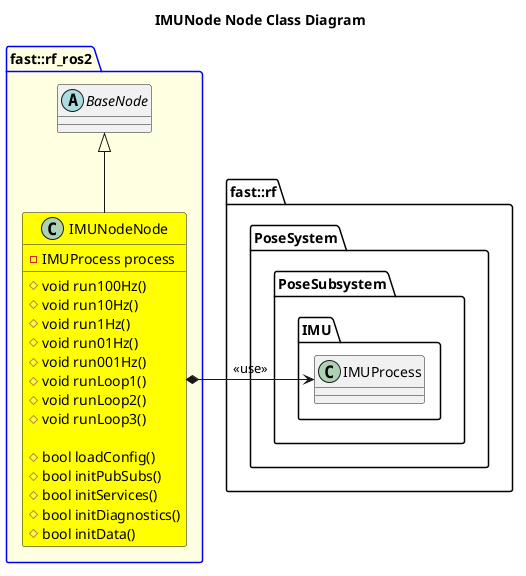
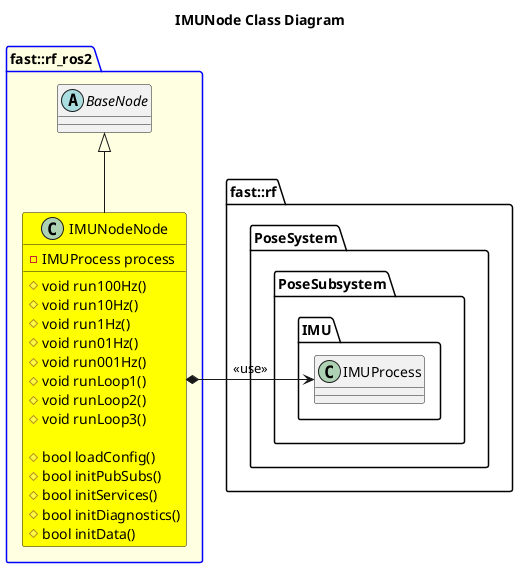
Updates

Changed region(s): [[0.3042, 0.0, 0.6996, 0.0625]]

diff --git a/Systems/Pose/Subsystems/LocalPose/Nodes/LocalPoseFuserNode/test/test_LocalPoseFuserNode.cpp b/Systems/Pose/Subsystems/LocalPose/Nodes/LocalPoseFuserNode/test/test_LocalPoseFuserNode.cpp
@@ -1,20 +1,25 @@
 /**
  * @file test_LocalPoseFuserNode.cpp
  * @author your name (you@domain.com)
- * @brief 
+ * @brief
  * @version 0.1
  * @date 2026-09-13
- * 
+ *
  * @copyright Copyright (c) 2026
  * @compare_tag Node-Test v0.1
- * 
+ *
  */
 #include <gtest/gtest.h>
 
 #include <Infrastructure/Logger.hpp>
 
 #include "../LocalPoseFuserNode.hpp"
+#include "nav_msgs/msg/odometry.hpp"
 #include "rclcpp/rclcpp.hpp"
+#include "sensor_msgs/msg/imu.hpp"
+
+using namespace std::chrono_literals;
+
 class Ros2TestEnvironment : public ::testing::Environment {
    public:
     ~Ros2TestEnvironment() override {}
@@ -23,8 +28,7 @@ class Ros2TestEnvironment : public ::testing::Environment {
 };
 testing::Environment* const ros2_env = testing::AddGlobalTestEnvironment(new Ros2TestEnvironment);
 std::string robotNamespace = "test";
-std::string nodeNamespace =
-    "pose/localpose/localposefuser";
+std::string nodeNamespace = "pose/localpose/localposefuser";
 std::string nodeUnderTest = "local_pose_fuser_node";
 class LocalPoseFuserNodeTestFixture : public ::testing::Test {
    protected:
@@ -49,6 +53,15 @@ class LocalPoseFuserNodeTestFixture : public ::testing::Test {
                 m_receivedReadyToArmRxCount++;
                 m_latestReadyToArm = std::move(*msg);
             });
+
+        m_localPoseSub = test_node->create_subscription<nav_msgs::msg::Odometry>(
+            "/" + robotNamespace + "/local_pose", 10, [this](const nav_msgs::msg::Odometry::SharedPtr msg) {
+                m_receivedLocalPoseRxCount++;
+                m_latestLocalPose = std::move(*msg);
+            });
+
+        m_machineInertialPub =
+            test_node->create_publisher<sensor_msgs::msg::Imu>("/" + robotNamespace + "/machine_imu", 10);
     }
 
     void TearDown() override { test_node.reset(); }
@@ -57,6 +70,8 @@ class LocalPoseFuserNodeTestFixture : public ::testing::Test {
     rclcpp::Subscription<robot_framework_ros2::msg::Heartbeat>::SharedPtr m_heartbeatSub;
     rclcpp::Subscription<robot_framework_ros2::msg::Diagnostic>::SharedPtr m_diagnosticSub;
     rclcpp::Subscription<robot_framework_ros2::msg::ReadyToArm>::SharedPtr m_readyToArmSub;
+    rclcpp::Subscription<nav_msgs::msg::Odometry>::SharedPtr m_localPoseSub;
+    rclcpp::Publisher<sensor_msgs::msg::Imu>::SharedPtr m_machineInertialPub;
 
     uint64_t m_receivedHeartbeatRxCount = 0;
     robot_framework_ros2::msg::Heartbeat m_latestHeartbeat;
@@ -64,9 +79,10 @@ class LocalPoseFuserNodeTestFixture : public ::testing::Test {
     robot_framework_ros2::msg::Diagnostic m_latestDiagnostic;
     uint64_t m_receivedReadyToArmRxCount = 0;
     robot_framework_ros2::msg::ReadyToArm m_latestReadyToArm;
+    uint64_t m_receivedLocalPoseRxCount = 0;
+    nav_msgs::msg::Odometry m_latestLocalPose;
 };
-TEST_F(LocalPoseFuserNodeTestFixture,
-    VerifyHeartbeatReception) {
+TEST_F(LocalPoseFuserNodeTestFixture, VerifyHeartbeatReception) {
     auto start_time = test_node->get_clock()->now();
     double timeout_seconds = 5.0;
 
@@ -85,4 +101,33 @@ TEST_F(LocalPoseFuserNodeTestFixture,
     ASSERT_GT(m_latestReadyToArm.subsystem_id, 0);
     ASSERT_GT(m_latestReadyToArm.process_id, 0);
     ASSERT_EQ(m_latestReadyToArm.ready_to_arm, true) << "ERROR: Node is not able to Arm.";
+}
+
+TEST_F(LocalPoseFuserNodeTestFixture, VerifyLocalPoseReception) {
+    sensor_msgs::msg::Imu imu_msg;
+    imu_msg.header.stamp = test_node->get_clock()->now();
+    imu_msg.header.frame_id = "imu_input";
+    imu_msg.orientation_covariance[0] = -1.0;
+    imu_msg.angular_velocity.x = 0.5;
+    imu_msg.angular_velocity.y = 1.5;
+    imu_msg.angular_velocity.z = -0.25;
+    imu_msg.linear_acceleration.x = 1.0;
+    imu_msg.linear_acceleration.y = 2.0;
+    imu_msg.linear_acceleration.z = 3.0;
+
+    const auto start_time = test_node->get_clock()->now();
+    const double timeout_seconds = 5.0;
+
+    while ((test_node->get_clock()->now() - start_time).seconds() < timeout_seconds) {
+        rclcpp::spin_some(test_node);
+        m_machineInertialPub->publish(imu_msg);
+        rclcpp::sleep_for(100ms);
+
+        if (m_receivedLocalPoseRxCount > 0) {
+            break;
+        }
+    }
+
+    ASSERT_GT(m_receivedLocalPoseRxCount, 0u) << "ERROR: Failed to receive Local Pose output within timeout.";
+    EXPECT_EQ(m_latestLocalPose.header.frame_id, imu_msg.header.frame_id);
 }

diff --git a/robot_bringup/launch/orchestrator.launch.py b/robot_bringup/launch/orchestrator.launch.py
@@ -1,4 +1,5 @@
 import os
+import re
 import socket
 from copy import deepcopy
 from ament_index_python.packages import get_package_share_directory
@@ -117,6 +118,27 @@ def resolve_named_parameters(parameters, named_maps):
     return resolved_parameters
 
 
+def to_namespace_component(value):
+    snake_case = re.sub(r'(?<!^)(?=[A-Z])', '_', value).lower()
+    return snake_case.replace('-', '_')
+
+
+def namespace_from_launch_file(launch_file):
+    path_parts = launch_file.replace('\\', '/').split('/')
+    try:
+        systems_index = path_parts.index('Systems')
+        system = path_parts[systems_index + 1]
+        subsystems_index = path_parts.index('Subsystems', systems_index + 2)
+        subsystem = path_parts[subsystems_index + 1]
+    except (ValueError, IndexError):
+        return None
+
+    if subsystem != 'LocalPose':
+        return None
+
+    return '/'.join((to_namespace_component(system), to_namespace_component(subsystem)))
+
+
 def build_launch_actions(context):
     bringup_dir = get_package_share_directory('robot_framework_ros2')
     scenario_name = context.perform_substitution(LaunchConfiguration('scenario'))
@@ -203,6 +225,9 @@ def build_launch_actions(context):
             # collapse the config namespace to "" and make parameters resolve as ".imu_node.*".
             launch_args = {str(k): str(v) for k, v in resolved_node_params.items()}
             launch_args['node_name'] = target_name
+            derived_namespace = namespace_from_launch_file(node_def['launch_file'])
+            if derived_namespace:
+                launch_args['node_namespace'] = derived_namespace
             launch_args.setdefault('robot_namespace', LaunchConfiguration('robot_namespace'))
 
             included_xml_launch = IncludeLaunchDescription(

diff --git a/Systems/Pose/Subsystems/LocalPose/Nodes/InertialSensorFuserNode/doc/InertialSensorFuserNode.md b/Systems/Pose/Subsystems/LocalPose/Nodes/InertialSensorFuserNode/doc/InertialSensorFuserNode.md
@@ -1,6 +1,6 @@
 `@compare_tag Node-Document v0.2`
 
-- [InertialSensorFuserNode Node](#inertialsensorfusernode-node)
+- [InertialSensorFuserNode](#inertialsensorfusernode)
   - [Purpose](#purpose)
 - [Architecture](#architecture)
   - [Class Diagram](#class-diagram)
@@ -8,7 +8,7 @@
   - [Configuration](#configuration)
     - [Node Registry](#node-registry)
 
-# InertialSensorFuserNode Node
+# InertialSensorFuserNode
 ## Purpose
 The Inertial Sensor Fuser Node's objective is to read multiple IMU data and aggreate all this into one wholistic representation of an IMU.  NOTE: Multiple instances of this node may need to be executed if IMU's are not rigididly mounted to one another.
 

diff --git a/Systems/Pose/Subsystems/LocalPose/Nodes/LocalPoseFuserNode/doc/LocalPoseFuserNode.md b/Systems/Pose/Subsystems/LocalPose/Nodes/LocalPoseFuserNode/doc/LocalPoseFuserNode.md
@@ -1,16 +1,16 @@
 `@compare_tag Node-Document v0.2`
 
-- [LocalPoseFuserNode Node](#localposefusernode-node)
+- [LocalPoseFuserNode](#localposefusernode)
 - [Architecture](#architecture)
   - [Class Diagram](#class-diagram)
 - [Integration Guide](#integration-guide)
   - [Configuration](#configuration)
     - [Node Registry](#node-registry)
 
-# LocalPoseFuserNode Node
+# LocalPoseFuserNode
 
 # Architecture
-![](../../../Legend.png)
+![](../../../../../../../Legend.png)
 
 ## Class Diagram
 ![](puml/LocalPoseFuserNodeClassDiagram.png)

diff --git a/templates/Node/{{cookiecutter.Node}}/doc/{{cookiecutter.Node}}.md b/templates/Node/{{cookiecutter.Node}}/doc/{{cookiecutter.Node}}.md
@@ -1,13 +1,13 @@
 `@compare_tag Node-Document v0.2`
 
-- [{{cookiecutter.Node}} Node](#cookiecutternode-node)
+- [{{cookiecutter.Node}}](#cookiecutternode)
 - [Architecture](#architecture)
   - [Class Diagram](#class-diagram)
 - [Integration Guide](#integration-guide)
   - [Configuration](#configuration)
     - [Node Registry](#node-registry)
 
-# {{cookiecutter.Node}} Node
+# {{cookiecutter.Node}}
 
 # Architecture
 ![](../../../Legend.png)

diff --git a/examples/ExampleNode/doc/ExampleNode.md b/examples/ExampleNode/doc/ExampleNode.md
@@ -1,13 +1,13 @@
 `@compare_tag Node-Document v0.2`
 
-- [ExampleNode Node](#cookiecutternode-node)
+- [ExampleNode](#examplenode)
 - [Architecture](#architecture)
   - [Class Diagram](#class-diagram)
 - [Integration Guide](#integration-guide)
   - [Configuration](#configuration)
     - [Node Registry](#node-registry)
 
-# ExampleNode Node
+# ExampleNode
 
 # Architecture
 ![](../../../Legend.png)

diff --git a/Systems/Pose/Subsystems/InertialSensor/Nodes/IMUNode/doc/IMUNode.md b/Systems/Pose/Subsystems/InertialSensor/Nodes/IMUNode/doc/IMUNode.md
@@ -1,6 +1,6 @@
 `@compare_tag Node-Document v0.2`
 
-- [IMUNode Node](#imunode-node)
+- [IMUNode](#imunode)
 - [Architecture](#architecture)
   - [Class Diagram](#class-diagram)
 - [Architecture](#architecture-1)
@@ -8,7 +8,7 @@
   - [Configuration](#configuration)
     - [Node Registry](#node-registry)
 
-# IMUNode Node
+# IMUNode
 
 # Architecture
 ![](../../../../../../../Legend.png)
